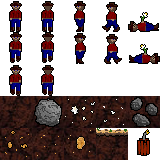
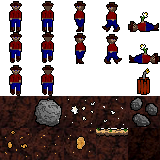
Added dynamite aftermath and improved move detection. Added 'reveal' feature.

Changed region(s): [[0.5938, 0.7812, 1.0, 1.0], [0.8438, 0.4062, 0.9375, 0.5938]]

diff --git a/lostmine.js b/lostmine.js
@@ -80,35 +80,23 @@ var init = function () {
                 break;
 
             case KEYS.RIGHT:
-                if (canWalk('RIGHT', minerRow, minerCol + 1)) {
-                    walking = true;
-                    pendingX = 1;
-                    pendingY = 0;
-                }
+                pendingX = 1;
+                pendingY = 0;
                 break;
 
             case KEYS.LEFT:
-                if (canWalk('LEFT', minerRow, minerCol - 1)) {
-                    walking = true;
-                    pendingX = -1;
-                    pendingY = 0;
-                }
+                pendingX = -1;
+                pendingY = 0;
                 break;
 
             case KEYS.UP:
-                if (canWalk('UP', minerRow - 1, minerCol)) {
-                    walking = true;
-                    pendingX = 0;
-                    pendingY = -1;
-                }
+                pendingX = 0;
+                pendingY = -1;
                 break;
 
             case KEYS.DOWN:
-                if (canWalk('DOWN', minerRow + 1, minerCol)) {
-                    walking = true;
-                    pendingX = 0;
-                    pendingY = 1;
-                }
+                pendingX = 0;
+                pendingY = 1;
                 break;
         }
     }
@@ -154,11 +142,8 @@ initSprites = function() {
     miner.setAnimFrame(DEAD_RIGHT, imageMap, 128, 0, 32, 32);    // dead right
 
     // DYNAMITE sprite
-    dynamiteSprite = spriteList.newSprite({id: 'dynamite',
-        width: 32, height: 32,
-        active: false
-    });
-    dynamiteSprite.setImage(imageMap, 128, 128, 32, 32);
+    dynamiteSprite = spriteList.newSprite({id: 'dynamite', width: 32, height: 32, active: false });
+    dynamiteSprite.setImage(imageMap, 128, 64, 32, 32);
 
     // EXPLOSION sprite
     explSprite = spriteList.newSprite({
@@ -251,6 +236,14 @@ var populateMine = function() {
         y = jgl.random(8) + 2;
         tileMap[y][x] = ROCK;
     }
+
+    // Set all tiles below ground element to be hidden
+    var row, col, t, tc;
+    for (col = 0; col < 20; col++) {
+        for (row = 2; row < 10; row++) {
+            tileMap[row][col] = tileMap[row][col] + 100;
+        }
+    }
 };
 
 //***********************************************
@@ -259,17 +252,59 @@ var drawMine = function() {
     for (col = 0; col < 20; col++) {
         for (row = 0; row < 10; row++) {
             t = tileMap[row][col];
-            if (t !== NOTHING && t !== DUGOUT) {
-                tc = tileCoords[t];
-                backLayerContext.drawImage(imageMap, tc.x, tc.y, 32, 32, col*32, 40+(row*32), 32, 32);
+            if (t >= 99) { // it's currently hidden
+                backLayerContext.drawImage(imageMap, 128, 128, 32, 32, col*32, 40+(row*32), 32, 32);
+            } else {
+                if (t !== NOTHING && t !== DUGOUT) {
+                    tc = tileCoords[t];
+                    backLayerContext.drawImage(imageMap, tc.x, tc.y, 32, 32, col*32, 40+(row*32), 32, 32);
+                }
             }
         }
     }
 };
 
 //***********************************************
-var canWalk = function(dir, row, col) {
-    if (row < 0 || row > 8) { return false; }       // off-screen
+var revealTiles = function (minerRow, minerCol) {
+    revealTile(minerRow+1, minerCol);
+    revealTile(minerRow-1, minerCol);
+    revealTile(minerRow, minerCol+1);
+    revealTile(minerRow, minerCol-1);
+};
+
+//***********************************************
+var revealTile = function(row, col) {
+    if (row < 0 || row > 9 || col < 0 || col > 19) { return };
+
+    t = tileMap[row][col];
+    if (t >= 99) { // it's currently hidden
+        t -= 100;  // not hidden flag
+    }
+    tileMap[row][col] = t;
+    if (t !== NOTHING && t !== DUGOUT) {
+        drawTile(t, row, col);
+    }
+};
+
+//***********************************************
+var drawTile = function(t, row, col) {
+    if (row < 1 || row > 9 || col < 0 || col > 19) { return };
+
+    tileMap[row][col] = t;
+    if (t == DUGOUT) {
+        backLayerContext.fillStyle = "#200";
+        backLayerContext.fillRect(col*32, 40+(row*32), 32, 32);
+    } else {
+        if (t !== NOTHING && t < tileCoords.length) {
+            var tc = tileCoords[t];
+            backLayerContext.drawImage(imageMap, tc.x, tc.y, 32, 32, col*32, 40+(row*32), 32, 32);
+        }
+    }
+};
+
+//***********************************************
+var canWalk = function(row, col) {
+    if (row < 0 || row > 9) { return false; }       // off-screen
     if (col < 0 || col > 19) { return false; }      // off-screen
 
     var t = tileMap[row][col];
@@ -285,18 +320,43 @@ var dropDynamite = function(row, col) {
         var y = 40 + row * 32;
         dynamiteSprite.setPosition(x, y);
         dynamiteSprite.show();
-        setTimeout(function() { detonateDynamite(x + 16, y + 16); }, 2000);
+        setTimeout(function() { detonateDynamite(row, col); }, 2000);
     }
 };
 
 //***********************************************
-var detonateDynamite = function(x, y) {
+var detonateDynamite = function(row, col) {
+    var x = col * 32 + 16;
+    var y = 40 + row * 32 + 16;
     dynamiteDropped = false;
     dynamiteSprite.hide();
     explSprite.setAnimActions(true);
     explSprite.setPosition(x, y);
     explSprite.setCurrentFrame(0);
+    explSprite.setAnimFrameCallback(10, function() { dynamiteAftermath(row, col); });
     explSprite.show();
+};
+
+//***********************************************
+var dynamiteAftermath = function(row, col) {
+    console.log("Dynamite exploded at "+row+","+col);
+    drawTile(DUGOUT, row - 1, col);
+    drawTile(DUGOUT, row, col - 1);
+    drawTile(DUGOUT, row, col);
+    drawTile(DUGOUT, row, col + 1);
+    drawTile(DUGOUT, row + 1, col);
+    if ((Math.abs(minerX - col) < 2 && minerY == row) || (Math.abs(minerY - row) < 2 && minerX == col)) {
+        // in the blast path
+        die(row, col);
+    }
+};
+
+//***********************************************
+var die = function(row, col) {
+    console.log("Miner is dead!");
+    walking = false;
+    miner.setAnimActions(false);
+    miner.setCurrentFrame(DEAD_LEFT);
 };
 
 //***********************************************
@@ -310,11 +370,30 @@ var animate = function(){
 
 //***********************************************
 var updateMiner = function(){
-    if (walking) {
+    if (walking || pendingX || pendingY) {
         if (++moveCounter >= 32) {
             moveCounter = 0;
-            moveX = pendingX;
-            moveY = pendingY;
+            moveX = moveY = 0;
+            minerCol = parseInt(minerX / 32);
+            minerRow = parseInt((minerY - 40) / 32);
+            if (pendingX || pendingY) {
+                if (pendingX > 0 && canWalk(minerRow, minerCol + 1)) {
+                    walking = true;
+                    moveX = 1;
+                }
+                if (pendingX < 0 && canWalk(minerRow, minerCol - 1)) {
+                    walking = true;
+                    moveX = -1;
+                }
+                if (pendingY < 0 && canWalk(minerRow - 1, minerCol)) {
+                    walking = true;
+                    moveY = -1;
+                }
+                if (pendingY > 0 && canWalk(minerRow + 1, minerCol)) {
+                    walking = true;
+                    moveY = 1;
+                }
+            }
             pendingX = pendingY = 0;
 
             if (moveX > 0) {
@@ -326,8 +405,16 @@ var updateMiner = function(){
             } else if (moveY < 0) {
                 miner.setFrameRange(WALK_UP_START, WALK_UP_END, WALK_UP_END);
             }
-            miner.setAnimActions(true, true, false);
-            if (moveX == 0 && moveY == 0) {
+
+            minerCol = parseInt(minerX / 32);
+            minerRow = parseInt((minerY - 40) / 32);
+            tileMap[minerRow][minerCol] = DUGOUT;
+            revealTiles(minerRow, minerCol);
+            console.log("MINER: " + minerRow + ',' + minerCol);
+
+            if (moveX || moveY) {
+                miner.setAnimActions(true, true, false);
+            } else {
                 stopWalking();
             }
         }
@@ -335,30 +422,15 @@ var updateMiner = function(){
         minerX += moveX;
         minerY += moveY;
 
-        if (minerX > 608) {
-            minerX = 608;
-            stopWalking();
-        }
-        if (minerY > 320) {
-            minerY = 320;
-            stopWalking();
-        }
-        if (minerX < 0) {
-            minerX = 0;
-            stopWalking();
-        }
-        if (minerY < 40) {
-            minerY = 40;
-            stopWalking();
-        }
-
         miner.setPosition(minerX, minerY);
         if (minerY > 71) {
             backLayerContext.beginPath();
-            backLayerContext.arc(minerX + 16,minerY + 16,16,0,2*Math.PI);
+            backLayerContext.arc(minerX + 16, minerY + 16, 16, 0, 2 * Math.PI);
             backLayerContext.fillStyle = "#200";
             backLayerContext.fill();
         }
+    } else {
+        moveCounter = 31;
     }
 };
 
@@ -372,10 +444,6 @@ var stopWalking = function() {
         if (moveX < 0) { frame = STAND_LEFT; }
         if (moveY > 0) { frame = STAND_DOWN; }
         if (moveY < 0) { frame = STAND_UP; }
-        minerCol = parseInt(minerX / 32);
-        minerRow = parseInt((minerY - 40) / 32);
-        tileMap[minerRow][minerCol] = DUGOUT;
-        console.log("MINER: "+minerRow+','+minerCol);
         miner.setAnimActions(false);
         miner.setCurrentFrame(frame);
     }
